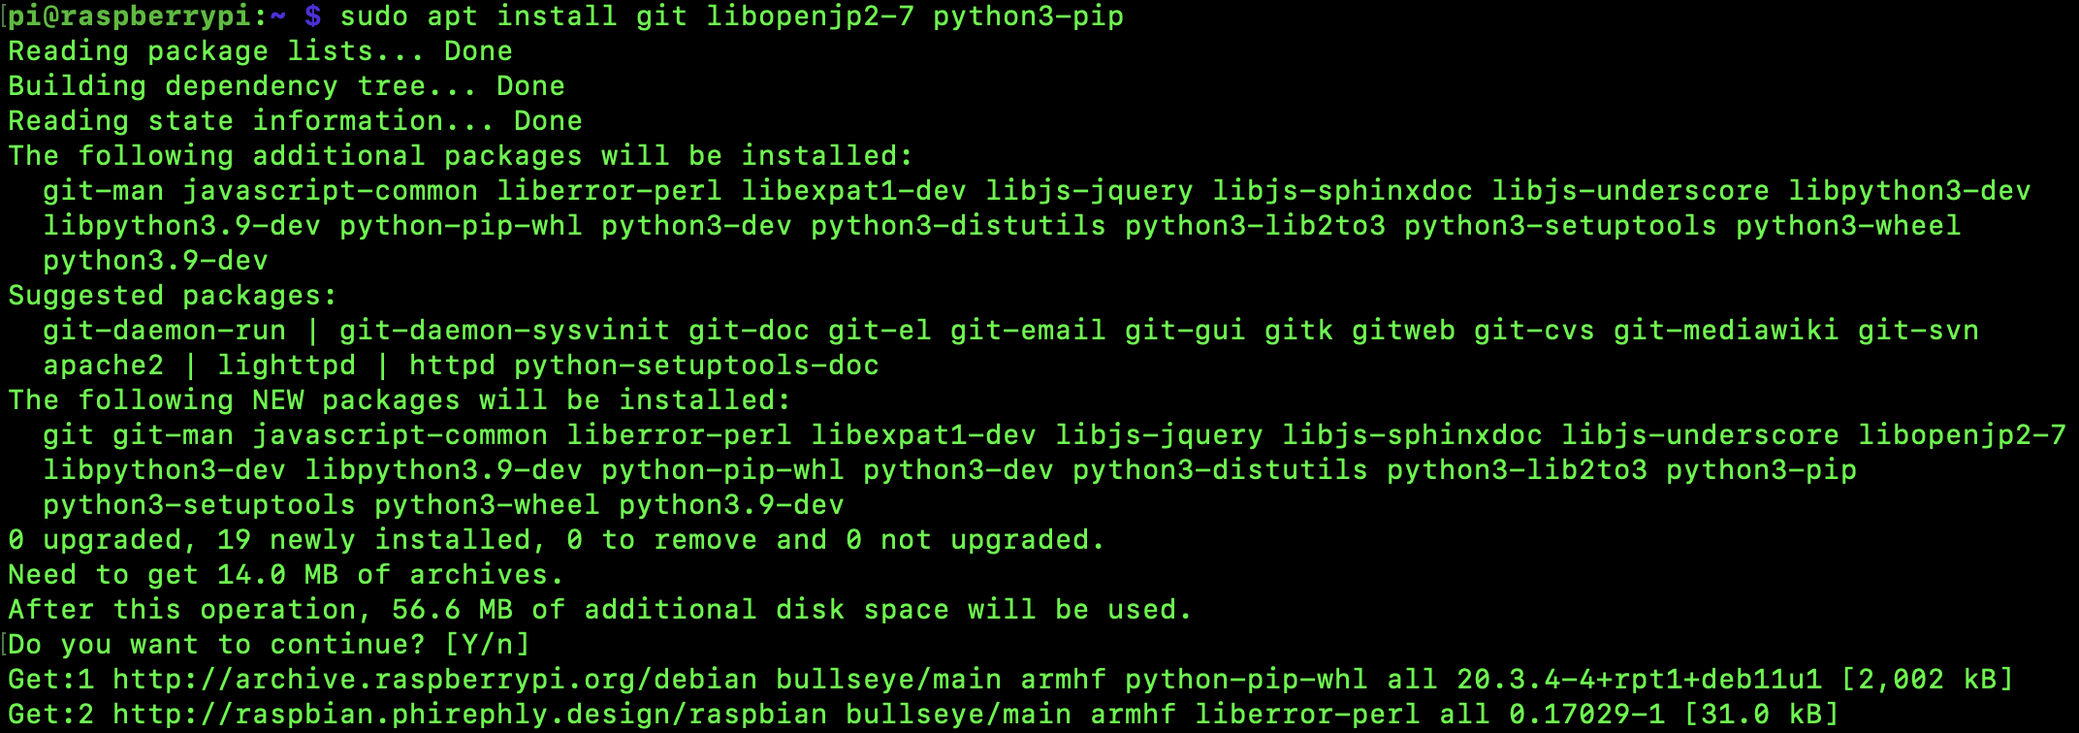
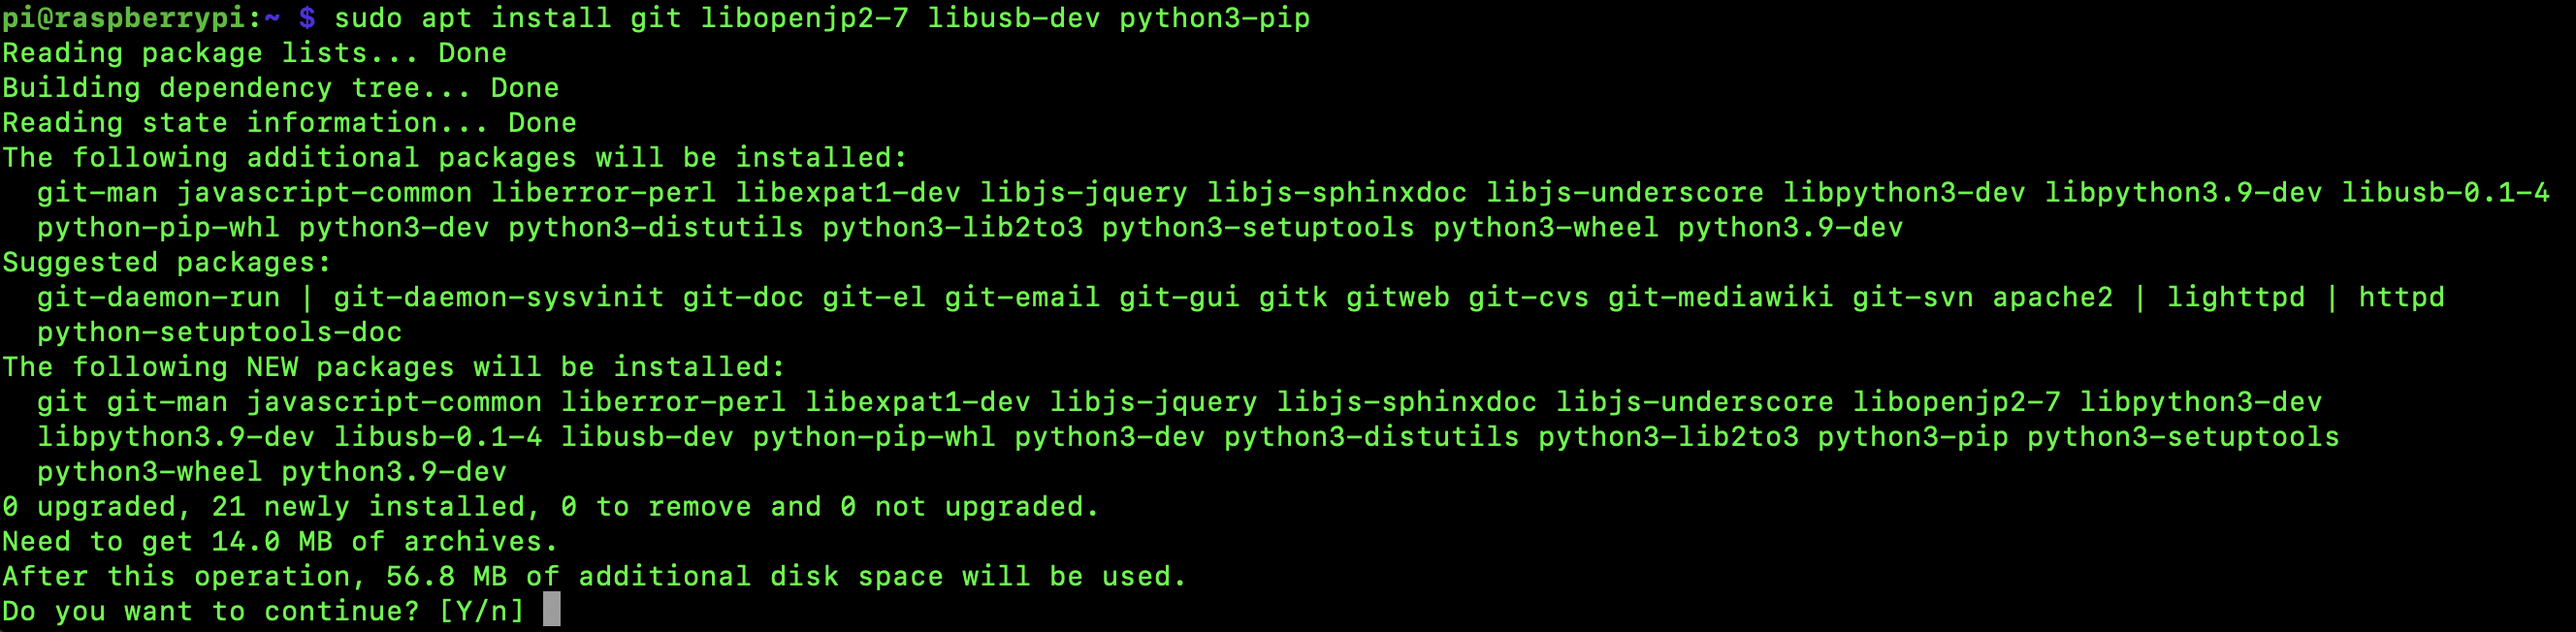
Digi (#29)
* updating gitignore so i can save my real config and not have to recreate it all the time

* removing some of the ones i know are installed automatically by others

* prepping for the digispark update, im almost there

* micronucleus and arduino-cli added to docs with images

* added digispark-script-generating code

* dont try to verify certs for tls

* template string for digispark script

* quick setup script. yes it has u+s+x on it, im not smart enough to do it the right way yet

Changed region(s): [[0.0, 0.0, 1.0, 1.0]]

diff --git a/update_wifi.py b/update_wifi.py
@@ -4,6 +4,8 @@ import epd4in2
 import os
 import qrcode
 import random
+import subprocess
+from arduino_string import sketch_template
 from PIL import Image
 from router_clients import UnifiClient
 
@@ -19,16 +21,16 @@ def generate_password(length):
             continue
         password += chr(char_num)
 
-    print("New password generated")
+    print("[+] New password generated")
     return password
 
 
 def generate_qr_code(wifi_password, screen_width, screen_height):
     qr = qrcode.QRCode(
-            version=1,
-            error_correction=qrcode.constants.ERROR_CORRECT_L,
-            box_size=10,
-            border=0,
+        version=1,
+        error_correction=qrcode.constants.ERROR_CORRECT_L,
+        box_size=10,
+        border=0,
     )
 
     qr_code_string = f"WIFI:T:WPA;S:{wifi_ssid};P:{wifi_password};;"
@@ -36,10 +38,50 @@ def generate_qr_code(wifi_password, screen_width, screen_height):
     qr.make()
     img = qr.make_image()
     img = img.resize((screen_width, screen_height))
-    #img.save(f"{dir_path}/wifi_qr.png")
 
-    print("New QR code generated")
+    print("[+] New QR code generated")
     return img
+
+
+def update_digispark(wifi_password):
+    digispark_sketch = sketch_template.substitute(password=wifi_password)
+    try:
+        os.mkdir(f"{current_dir}/digispark_sketch")
+    except OSError:
+        pass
+
+    with open(f"{current_dir}/digispark_sketch/digispark_sketch.ino", "w") as f:
+        f.write(digispark_sketch)
+
+    try:
+        subprocess.run([
+            "arduino-cli",
+            "compile",
+            "-b",
+            "digistump:avr:digispark-tiny",
+            "-e",
+            "--build-path",
+            f"{current_dir}/digispark_sketch/build",
+            f"{current_dir}/digispark_sketch/"
+        ], check=True, stdout=subprocess.DEVNULL, stderr=subprocess.DEVNULL)
+    except subprocess.CalledProcessError:
+        print("[-] There was a problem compiling the Arduino sketch")
+        exit(1)
+
+    subprocess.Popen([
+        "uhubctl",
+        "-l",
+        "1-1",
+        "-a",
+        "cycle",
+        "-d",
+        "5",
+    ], stdout=subprocess.DEVNULL)
+
+    subprocess.run(["micronucleus", f"{current_dir}/digispark_sketch/build/digispark_sketch.ino.hex"],
+                   stdout=subprocess.DEVNULL)
+
+    print("[+] Digispark password typer updated")
 
 
 def update_network(wifi_password):
@@ -50,7 +92,7 @@ def update_network(wifi_password):
 
     unifi_client = UnifiClient(administration_host, administration_username, administration_password)
     unifi_client.change_wifi_password(wifi_id, wifi_password)
-    print(f"Network '{wifi_id}' password updated")
+    print(f"[+] Network '{wifi_ssid}' password updated")
 
 
 def update_screen(screen_instance, img):
@@ -58,7 +100,7 @@ def update_screen(screen_instance, img):
     screen_instance.Clear()
     screen_instance.display(screen_instance.getbuffer(img))
 
-    print("Screen display updated")
+    print("[+] Screen display updated")
 
 
 if __name__ == "__main__":
@@ -66,8 +108,8 @@ if __name__ == "__main__":
     parser.add_argument('--manual', action='store_true')
     args = parser.parse_args()
     config = configparser.ConfigParser()
-    dir_path = os.path.dirname(os.path.realpath(__file__))
-    config.read(f"{dir_path}/config.ini")
+    current_dir = os.path.dirname(os.path.realpath(__file__))
+    config.read(f"{current_dir}/config.ini")
     desired_password_length = int(config["PASSWORD"]["length"])
     wifi_ssid = config["WIFI"]["ssid"]
 
@@ -81,3 +123,4 @@ if __name__ == "__main__":
     qr_code = generate_qr_code(new_password, epd.width, epd.height)
     update_network(new_password)
     update_screen(epd, qr_code)
+    update_digispark(new_password)

diff --git a/router_clients.py b/router_clients.py
@@ -1,5 +1,8 @@
 import requests
 
+# Do away with annoying error; sure we should check the cert but...
+requests.packages.urllib3.disable_warnings()
+
 
 class UnifiAuthorizationError(Exception):
     pass
@@ -14,11 +17,10 @@ class UnifiActionError(Exception):
 
 
 class UnifiClient:
-    def __init__(self, network_controller, username, password, verify_requests=False):
+    def __init__(self, network_controller, username, password):
         self.controller = network_controller
         auth_endpoint = f"https://{self.controller}:443/api/auth/login"
         self.session = requests.Session()
-        self.session.verify = verify_requests
         login_payload = {"username": username, "password": password}
         login = self.session.post(auth_endpoint, json=login_payload)
         if login.status_code != 200:

diff --git a/arduino_string.py b/arduino_string.py
@@ -1,0 +1,40 @@
+from string import Template
+
+sketch_template = Template("""
+#include <avr/pgmspace.h>
+#include "DigiKeyboard.h"
+
+// Check this for preserving RAM http://digistump.com/board/index.php/topic,2554.msg12242.html#msg12242
+#define gp( x ) (strcpy_P(buffer, (char*)x))
+char buffer[66];
+
+const char c0[] PROGMEM = "$password";
+
+// Enter
+void en() {
+    DigiKeyboard.sendKeyStroke(KEY_ENTER);
+}
+
+// Print
+void pr(String text) {
+    DigiKeyboard.print(text);   
+}
+
+// Sleep
+void sl(int time) {
+    DigiKeyboard.delay(time);
+}
+
+void setup() {
+    DigiKeyboard.sendKeyStroke(0);
+    sl(300);
+    pr( gp(c0) );
+    sl(100);
+    en();
+    en();
+}
+  
+void loop() {
+    // put your main code here, to run repeatedly
+}
+""".strip())

diff --git a/docs/index.md b/docs/index.md
@@ -6,6 +6,10 @@ title: "Wifi QR"
 
 Wifi QR is a lazily-named project that automatically updates my guest wifi password on a set schedule. It then generates a QR code and displays it on an e-ink screen so that when my guests point their phone camera at the screen they are logged in to my guest network.
 
+[![image_not_found](/assets/images/wifi_qr_front.png)](https://raw.githubusercontent.com/kmanc/wifi_qr/main/docs/assets/images/wifi_qr_front.png)
+
+[![image_not_found](/assets/images/wifi_qr_back.png)](https://raw.githubusercontent.com/kmanc/wifi_qr/main/docs/assets/images/wifi_qr_back.png)
+
 ## Why though?
 
 The real motivation for this project was "to see if I could", but if you're looking for a few benefits of a project like this, here's a few:
@@ -51,6 +55,13 @@ Because my screen had connection cables included I didn't need to buy any. That 
   - [Amazon](https://www.amazon.com/Break-Away-2x20-pin-Strip-Header-Raspberry/dp/B0756KM7CY)
 - Rasberry Pi jumper cables
   - [Amazon](https://www.amazon.com/dp/B09FP2F22C)
+
+Finally for my "reverse-keylogger" to help support devices that don't have the ability to scan QR codes but do have USB ports (typically laptops), I used a Digispark development board and a USB adapter cable:
+
+- Digispark dev board
+  - [Amazon](https://www.amazon.com/ACEIRMC-Digispark-Kickstarter-Attiny85-Development/dp/B08JGL5TSV)
+- USB adapter
+  - [Amazon](https://www.amazon.com/gp/product/B00YOX4JU6)
 
 ## Raspberry Pi setup
 
@@ -116,6 +127,10 @@ Finally, I burned the image to the disk.
 
 ### Make it control the screen
 
+For some reason my Raspberry Pi was having trouble with SSH out-of-the-box. After some Googling I found out it was because of some flags set in the packets being sent and the way they interacted with my network; I was able to fix it by running the following command, substituting in the IP address of my Raspberry Pi.
+
+`ssh pi@pis.ip.add.res 'echo "IPQoS cs0 cs0" | sudo tee -a /etc/ssh/sshd_config && echo done && sudo reboot now'`
+
 Having finished configuring a Raspberry Pi to connect to my home network and accept an SSH connection, I needed to prepare it to display a QR code to the e-ink screen. My first step was to solder the header pins to the board and figure out what pins on the screen had to connect to what pins on the board. [Waveshare's documentation](https://www.waveshare.com/wiki/4.2inch_e-Paper_Module_Manual#Users_Guides_of_Raspberry_Pi) is pretty helpful in this regard; because my screen had the cables connected to the screen already all I had to do was put them on the corresponding header pin
 
 [![image_not_found](/assets/images/waveshare_eink_pins.png)](https://raw.githubusercontent.com/kmanc/wifi_qr/main/docs/assets/images/waveshare_eink_pins.png)
@@ -128,7 +143,7 @@ Next I had to install some packages and libraries, so I started by ensuring that
 
 Then I proceeded to install the packages.
 
-`sudo apt install git libopenjp2-7 python3-pip`
+`sudo apt install git libopenjp2-7 libusb-dev python3-pip`
 
 [![image_not_found](/assets/images/raspi_installs.png)](https://raw.githubusercontent.com/kmanc/wifi_qr/main/docs/assets/images/raspi_installs.png)
 
@@ -193,6 +208,92 @@ I checked the box to enable the SPI interface.
 And finally closed the option menu.
 
 [![image_not_found](/assets/images/raspi_config_finish.png)](https://raw.githubusercontent.com/kmanc/wifi_qr/main/docs/assets/images/raspi_config_finish.png)
+
+Next I moved on to setting up `micronucleus` so that I could update the bootloader on my Digispark boards, and upload Arduino scripts to them.
+
+`cd ~`
+
+From my home directory I cloned the repo to my Raspberry Pi.
+
+`git clone https://github.com/micronucleus/micronucleus.git`
+
+[![image_not_found](/assets/images/raspi_micronucleus.png)](https://raw.githubusercontent.com/kmanc/wifi_qr/main/docs/assets/images/raspi_micronucleus.png)
+
+Then I changed into it's command line directory so I could build the executable.
+
+`cd micronucleus/commandline/`
+
+[![image_not_found](/assets/images/raspi_micronucleus_commandline.png)](https://raw.githubusercontent.com/kmanc/wifi_qr/main/docs/assets/images/raspi_micronucleus_commandline.png)
+
+After that I actually built the executable.
+
+`make`
+
+[![image_not_found](/assets/images/raspi_micronucleus_make.png)](https://raw.githubusercontent.com/kmanc/wifi_qr/main/docs/assets/images/raspi_micronucleus_make.png)
+
+And moved the file to a directory in my PATH so that I could run it more conveniently.
+
+`sudo cp micronucleus /usr/local/bin`
+
+[![image_not_found](/assets/images/raspi_micronucleus_bin.png)](https://raw.githubusercontent.com/kmanc/wifi_qr/main/docs/assets/images/raspi_micronucleus_bin.png)
+
+Before leaving the `micronucleus` directory, I copied a file provided by the project to help the Raspberry Pi identify boards running the `micronucleus` bootloader.
+
+`sudo cp 49-micronucleus.rules /etc/udev/rules.d/`
+
+[![image_not_found](/assets/images/raspi_micronucleus_rules.png)](https://raw.githubusercontent.com/kmanc/wifi_qr/main/docs/assets/images/raspi_micronucleus_rules.png)
+
+With that all done, I returned to my home directory.
+
+`cd ~`
+
+At this point, I upgraded the bootloader on the board I intended to use, as it shipped with a very old version.
+
+`micronucleus --run micronucleus/firmware/upgrades/upgrade-t85_default.hex`
+
+[![image_not_found](/assets/images/raspi_micronucleus_upgrade.png)](https://raw.githubusercontent.com/kmanc/wifi_qr/main/docs/assets/images/raspi_micronucleus_upgrade.png)
+
+Although I now could _upload_ Arduino scripts to my Digispark board, I had no way to _compile_ them, so I needed the `arduino-cli` tool. I downloaded and ran the installer first.
+
+`curl -fsSL https://raw.githubusercontent.com/arduino/arduino-cli/master/install.sh | sh`
+
+[![image_not_found](/assets/images/raspi_arduino_cli.png)](https://raw.githubusercontent.com/kmanc/wifi_qr/main/docs/assets/images/raspi_arduino_cli.png)
+
+Then I moved the executable to the same directory in my PATH that I had moved `micronucleus` into.
+
+`sudo mv bin/arduino-cli /usr/local/bin`
+
+[![image_not_found](/assets/images/raspi_arduino_cli_bin.png)](https://raw.githubusercontent.com/kmanc/wifi_qr/main/docs/assets/images/raspi_arduino_cli_bin.png)
+
+After that I deleted the leftover (now empty) directory that the installer had created.
+
+`rm -rf bin/`
+
+[![image_not_found](/assets/images/raspi_arduino_cli_cleanup.png)](https://raw.githubusercontent.com/kmanc/wifi_qr/main/docs/assets/images/raspi_arduino_cli_cleanup.png)
+
+Next I had to teach `arduino-cli` how to work with my Digispark board and `micronucleus`, starting by creating a config file.
+
+`arduino-cli config init`
+
+[![image_not_found](/assets/images/raspi_arduino_cli_config_init.png)](https://raw.githubusercontent.com/kmanc/wifi_qr/main/docs/assets/images/raspi_arduino_cli_config_init.png)
+
+I had to edit that config to include a specific package index for Digispark (https://raw.githubusercontent.com/ArminJo/DigistumpArduino/master/package_digistump_index.json).
+
+`nano .arduino15/arduino-cli.yaml`
+
+[![image_not_found](/assets/images/raspi_arduino_cli_config_change.png)](https://raw.githubusercontent.com/kmanc/wifi_qr/main/docs/assets/images/raspi_arduino_cli_config_change.png)
+
+Nearly done, I had `arduino-cli` reload the config to take any actions needed based on the new config file.
+
+`arduino-cli core update-index`
+
+[![image_not_found](/assets/images/raspi_arduino_cli_update.png)](https://raw.githubusercontent.com/kmanc/wifi_qr/main/docs/assets/images/raspi_arduino_cli_update.png)
+
+And finally with all that complete, I could install the proper "language" for `arduino-cli` to compile for my Digispark board.
+
+`arduino-cli core install digistump:avr`
+
+[![image_not_found](/assets/images/raspi_arduino_cli_install.png)](https://raw.githubusercontent.com/kmanc/wifi_qr/main/docs/assets/images/raspi_arduino_cli_install.png)
 
 ## Project setup
 
